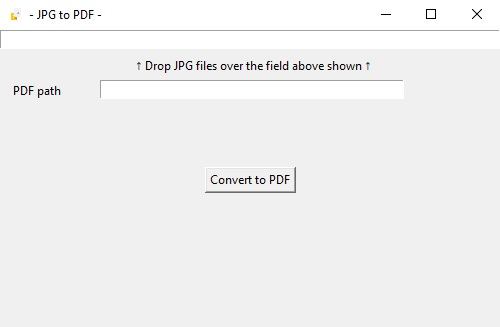
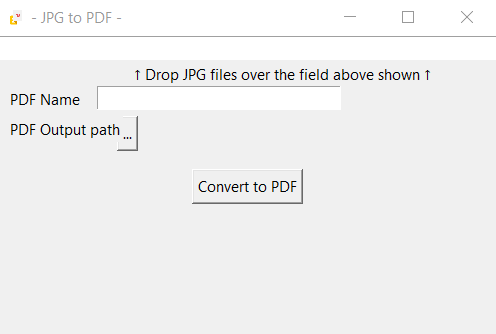
choose output PDF path button is now available

diff --git a/export_to_pdf_app.py b/export_to_pdf_app.py
@@ -10,6 +10,7 @@ from tkinter import messagebox
 import tkinterdnd2
 from fpdf import FPDF
 from PIL import Image
+from tkinter import filedialog
 
 def format_files_as_list(files_received):
     return files_received.get().replace("{","").replace("}","").split(" ")
@@ -25,6 +26,14 @@ def export_to_pdf_app(files,pdfFileName, dir = ''):
         pdf.image(page, 0, 0)
     pdf.output(dir + pdfFileName + ".pdf", "F")
 
+def browse_button():
+    # Allow user to select a directory and store it in global var
+    # called folder_path
+    global output_folder_path
+    filename = filedialog.askdirectory()
+    output_folder_path.set(filename)
+    print(filename)
+
 
 def drop(event):
     entry_sv.set(event.data)
@@ -34,25 +43,31 @@ root.geometry("500x300")
 root.wm_iconbitmap('img/logo.ico')
 
 var = tkinter.IntVar()
-a = tkinter.Label(root, text="PDF path")
+a = tkinter.Label(root, text="PDF Name")
 a.place(x=10, y=50)
 a0 = tkinter.Label(root, text=" ↑ Drop JPG files over the field above shown ↑")
 a0.place(x=130, y=25)
 entry_sv = tkinter.StringVar()
-
+output_folder_path = tkinter.StringVar()
+lbl1 = tkinter.Label(master=root,textvariable=output_folder_path)
+lbl1.place(x=120, y=80)
 entry2_sv = tkinter.StringVar()
 entry = tkinter.Entry(root, textvar=entry_sv, width=50)
 entry.pack(fill=tkinter.X)
 entry.drop_target_register(tkinterdnd2.DND_FILES)
 entry.dnd_bind('<<Drop>>', drop)
-entry2 = tkinter.Entry(root, textvar=entry2_sv, width=50)
+entry2 = tkinter.Entry(root, textvar=entry2_sv, width=30)
 entry2.place(x=100, y=50)
+browse_output_button = tkinter.Button(text="...", command=browse_button)
+output_label_path = tkinter.Label(root, text="PDF Output path")
+output_label_path.place(x=10, y=80)
+browse_output_button.place(x=120, y=80)
 
 def convert_to_pdf():
    if(not entry_sv.get().strip() or not entry2.get().strip()):
        messagebox.showerror( "Error", "Please, drop the image file(s) to convert and its resulting PDF file name")
    else:
-       export_to_pdf_app(format_files_as_list(entry_sv),entry2.get(), dir = '')
+       export_to_pdf_app(format_files_as_list(entry_sv),entry2.get(), dir = output_folder_path.get())
        messagebox.showinfo( "- JPG to PDF - ", "File has been successfully created!")
 
 

diff --git a/README.md b/README.md
@@ -28,7 +28,7 @@ pyinstaller --onefile --icon=logo.ico --noconsole test_app2.py
 
 TODO:
 
-* Add a button to choose the input files from path instead of the drag & drop way only.
-* Add a button to choose the file output path
-* improve the UX design somehow, add a background image to the interface.
+* Add a button to choose the input files from path too (not the drag & drop way only).
+~~* Add a button to choose the file output path~~
+* improve the UX design somehow, add a background image to the interface maybe (?).
 
